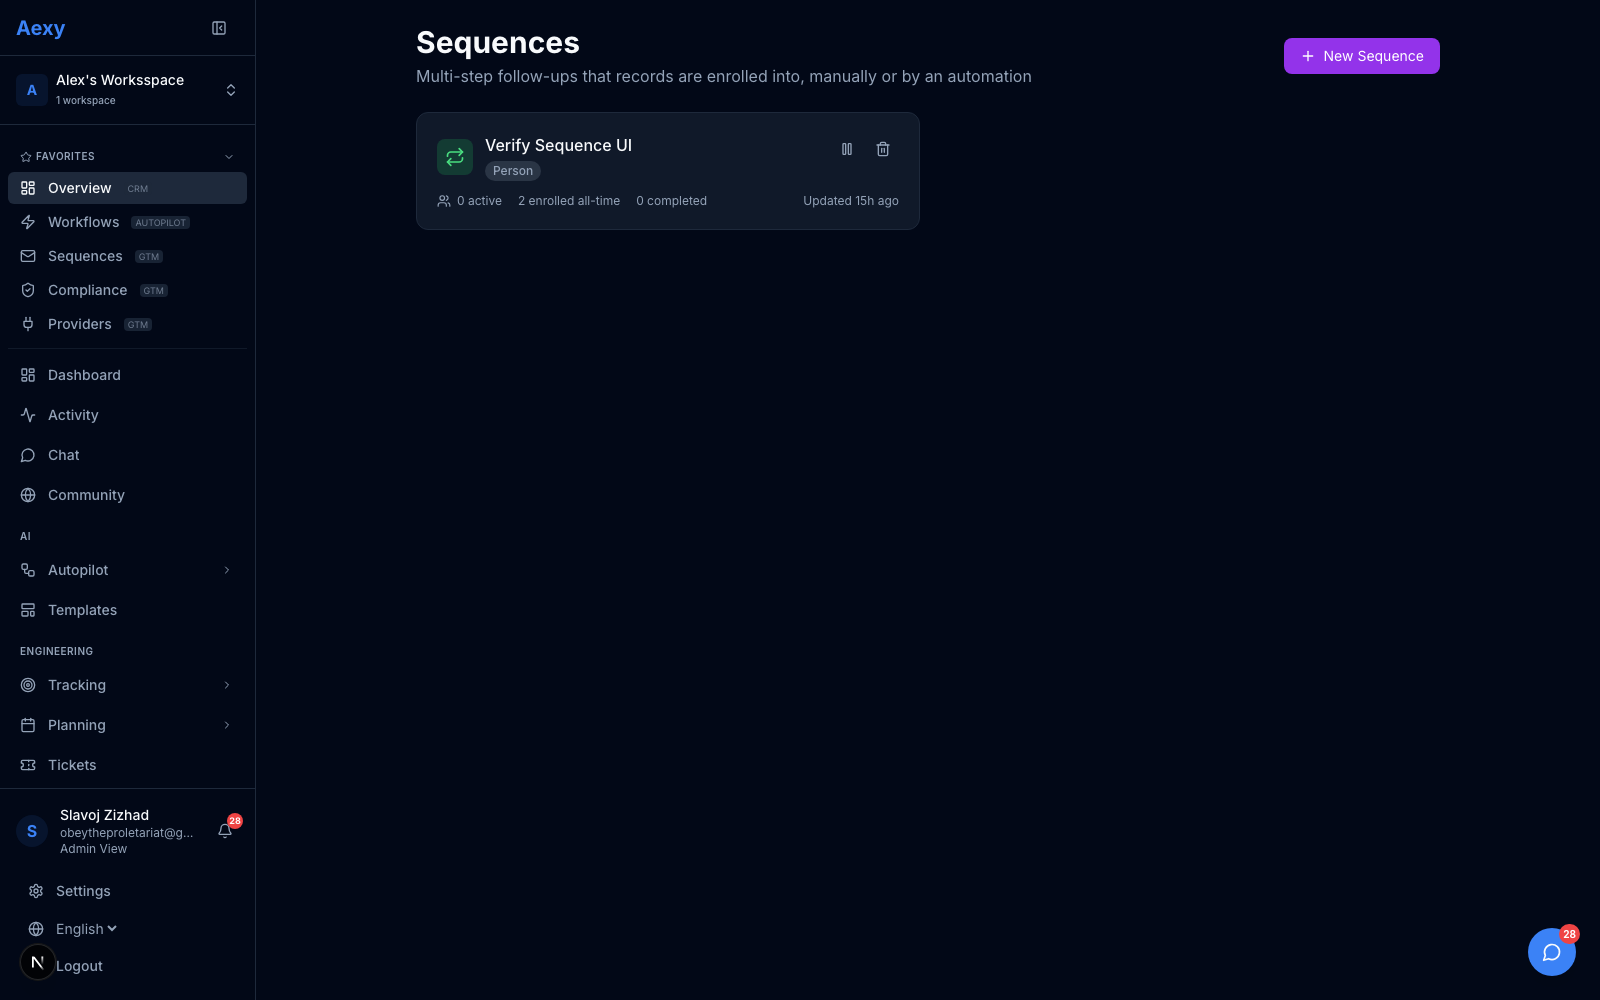
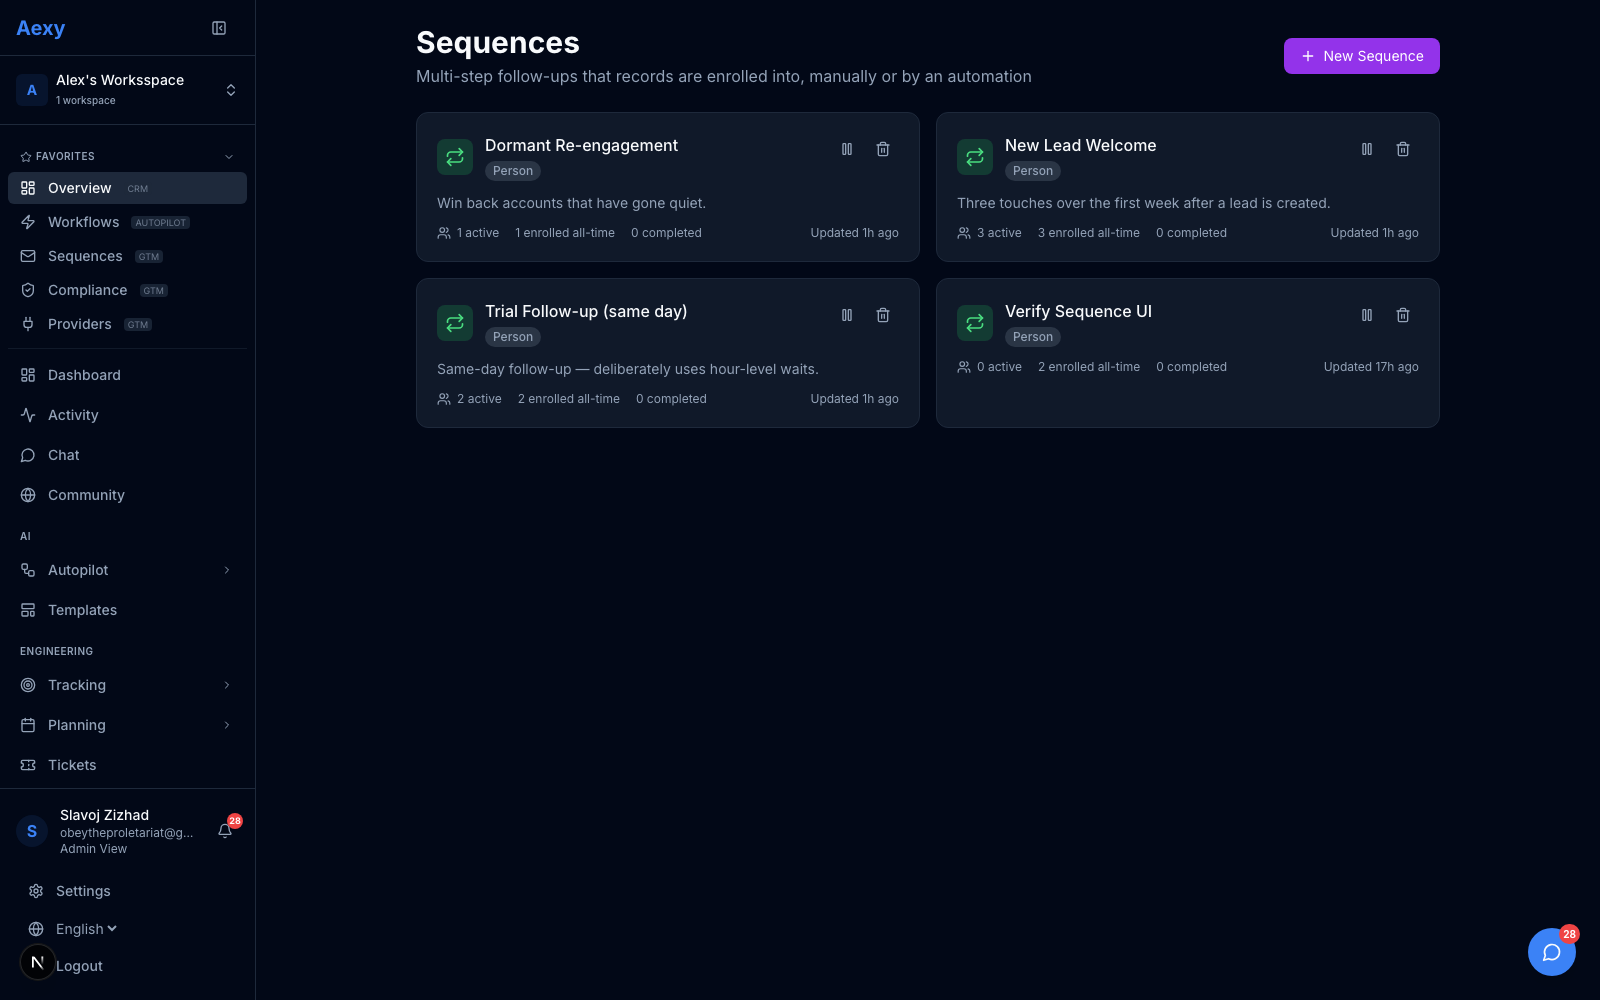
chore: refresh PR screenshots and add the capture script
Sequences now show real data instead of an empty shell, and the sequence
detail shot demonstrates immediate, hour-level and minute-level waits — the
exact cases the sequences pull request fixes and which could not previously
be created at all.

Adds capture.sh, seed.py and capture.mjs so the whole set can be regenerated
with one command against a running stack.

diff --git a/pr-screenshots/seed.py b/pr-screenshots/seed.py
@@ -1,0 +1,72 @@
+"""Create the demo data the screenshots need. Safe to run repeatedly."""
+import os, json, urllib.request
+
+TOK, WS = os.environ["TOK"], os.environ["WS"]
+API = "http://localhost:8000/api/v1"
+PERSON = "d64f7286-eaac-433f-b607-850a82514bb8"
+DEAL = "5d25f0db-a505-4caa-b090-8eba9a760d8c"
+STAGE_ATTR = "d1a96d37-1f62-40fb-be71-f45e8fbd1bcb"
+
+
+def call(method, path, body=None):
+    req = urllib.request.Request(
+        API + path, method=method,
+        headers={"Authorization": "Bearer " + TOK, "Content-Type": "application/json"},
+        data=json.dumps(body).encode() if body else None)
+    try:
+        return json.load(urllib.request.urlopen(req))
+    except Exception as exc:
+        return {"err": str(exc)}
+
+
+# A pipeline, so the deals board renders instead of offering to make one.
+pipelines = call("GET", f"/workspaces/{WS}/crm/pipelines")
+if not any(p.get("object_id") == DEAL for p in pipelines if isinstance(p, dict)):
+    call("POST", f"/workspaces/{WS}/crm/pipelines", {
+        "object_id": DEAL, "name": "Sales Pipeline",
+        "is_default": True, "adopt_attribute_id": STAGE_ATTR})
+    print("   created the deals pipeline")
+else:
+    print("   deals pipeline already present")
+
+# Sequences with steps, including sub-day waits — the case PR 210 fixes.
+PLAN = {
+    "New Lead Welcome": ("Three touches over the first week after a lead arrives.", [
+        ("email", {"subject": "Welcome to Aexy"}, 0, "minutes"),
+        ("wait", {}, 2, "days"),
+        ("email", {"subject": "Getting the most from your trial"}, 0, "minutes"),
+        ("task", {"task_title": "Call the lead if no reply"}, 1, "days")]),
+    "Trial Follow-up (same day)": ("Same-day follow-up using hour and minute waits.", [
+        ("email", {"subject": "How is the trial going?"}, 0, "minutes"),
+        ("wait", {}, 3, "hours"),
+        ("task", {"task_title": "Check trial usage"}, 30, "minutes")]),
+    "Dormant Re-engagement": ("Win back accounts that have gone quiet.", [
+        ("email", {"subject": "We miss you"}, 0, "minutes"),
+        ("wait", {}, 7, "days"),
+        ("email", {"subject": "One last note"}, 0, "minutes")]),
+}
+
+existing = {s["name"]: s["id"] for s in call("GET", f"/workspaces/{WS}/crm/sequences")}
+records = [r["id"] for r in call("GET", f"/workspaces/{WS}/crm/objects/{PERSON}/records?limit=8").get("records", [])]
+cursor = 0
+
+for name, (desc, steps) in PLAN.items():
+    if name in existing:
+        print(f"   sequence already present: {name}")
+        cursor += 2
+        continue
+    seq = call("POST", f"/workspaces/{WS}/crm/sequences",
+               {"name": name, "description": desc, "object_id": PERSON, "is_active": True})
+    if "id" not in seq:
+        print(f"   could not create {name}: {seq}")
+        continue
+    for position, (kind, config, value, unit) in enumerate(steps):
+        call("POST", f"/workspaces/{WS}/crm/sequences/{seq['id']}/steps",
+             {"step_type": kind, "config": config,
+              "delay_value": value, "delay_unit": unit, "position": position})
+    for _ in range(2):
+        if cursor < len(records):
+            call("POST", f"/workspaces/{WS}/crm/sequences/{seq['id']}/enroll",
+                 {"record_id": records[cursor]})
+            cursor += 1
+    print(f"   created sequence: {name} ({len(steps)} steps)")
